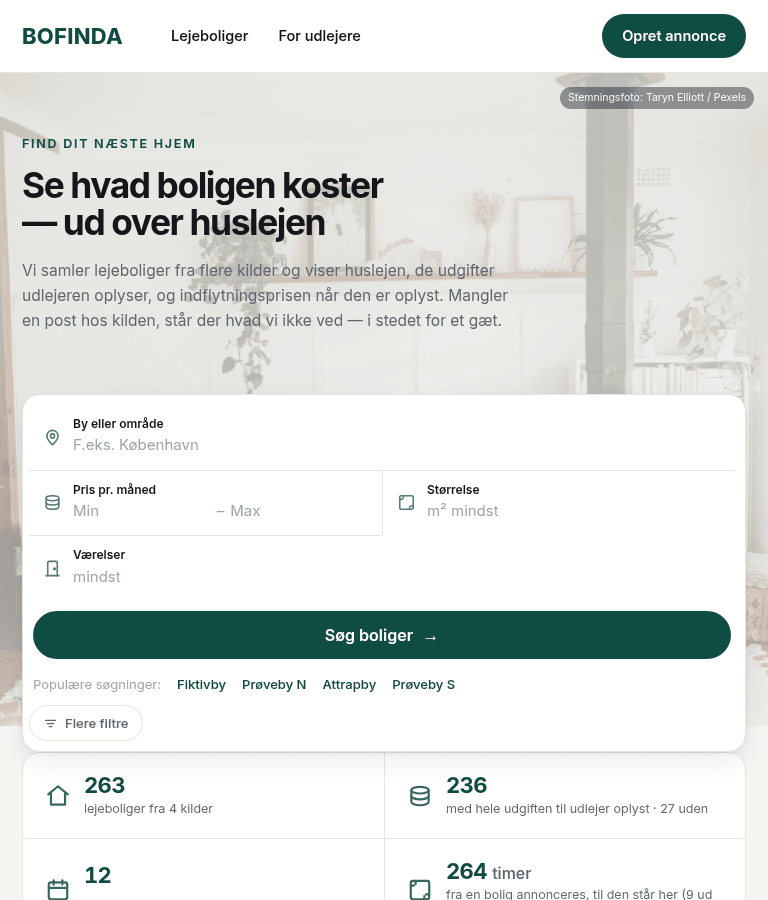
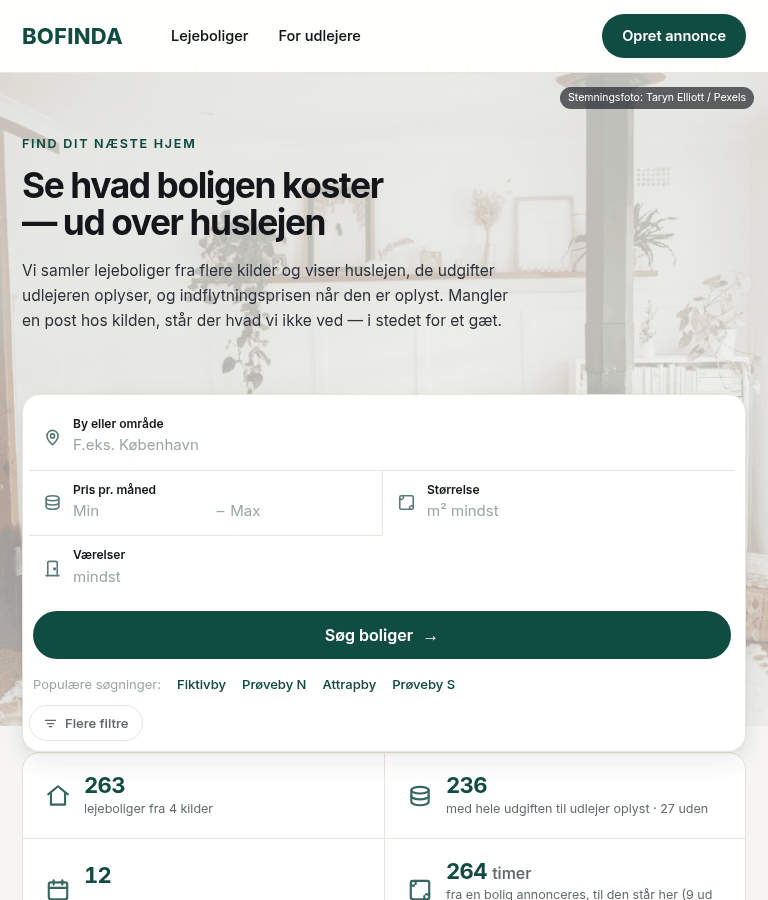
Hero'ens oevrige tekst: broedteksten og krediteringen holder nu 4,5:1 — og to fejl i selve maalingen
Kontrollen maalte kun `h1`. Den oevrige tekst paa hero'en staar over det
samme foto i lysere farver, og en overskrift, der holder, siger intet om
broedteksten under den.

Foto, beskaering og resten af designet er uaendret. `public/hero-stue.jpg`
er bit for bit den samme fil.

═══ MAALT FOER NOGEN RETTELSE ═══

Fire tekster x fire bredder x to maalinger. Tolv fald under 4,5:1:

    tekst                  farve                    over sort   med fotoet
    den lille overskrift   #0f4d43                  4,8–8,4     5,5–9,0     ok
    overskriften           #14161a                  7,2–8,9     9,3–13,0    ok
    broedteksten           #5f6672                  2,2–2,8     2,9–3,8     FALDT
    fotokrediteringen      hvid paa rgba(…,.42)     4,6–14,6    3,2–3,3     FALDT

═══ RETTELSERNE ═══

BROEDTEKSTEN brugte `--daempet` (#5f6672) — en farve valgt til en rolig
flade, ikke til et foto. Den er nu #2c333d, og tallet er REGNET: den
lyseste flade bag teksten over et helt sort motiv har luminans 0,357, og
4,5:1 kraever saa en tekstluminans under 0,040. #2c333d ligger paa 0,032.
Reglen er lokal for `.hero-manchet`; resten af sidens broedtekst bliver
paa `--daempet`, hvor den staar paa hvidt eller sand og ikke har
problemet.

FOTOKREDITERINGENS pille var rgba(20,22,26,.42) — for gennemsigtig.
Oeverst til hoejre i motivet ligger vinduet og reolen, motivets lyseste
parti, og hvid tekst paa den blanding gav 3,2:1. Pillen er nu .66, ogsaa
[…]

Changed region(s): [[0.2188, 0.28, 0.6562, 0.3733], [0.0312, 0.28, 0.2188, 0.3733], [0.7188, 0.0933, 1.0, 0.1244]]

diff --git a/app/globals.css b/app/globals.css
@@ -1026,8 +1026,22 @@ footer.bund {
   margin: 0 0 18px; max-width: 17ch; text-wrap: balance;
 }
 .hero-manchet {
-  font-size: clamp(15.5px, 1.25vw, 18px); line-height: 1.6; color: var(--daempet);
+  font-size: clamp(15.5px, 1.25vw, 18px); line-height: 1.6;
   margin: 0; max-width: 50ch;
+  /* EGEN FARVE, IKKE `--daempet`. Manchetten er den eneste broedtekst
+     paa siden, der staar over et FOTO. `--daempet` (#5f6672) er valgt
+     til en rolig flade og maalte 2,2–2,9:1 her — under kravet paa alle
+     fire bredder, og vaerst dér hvor sloeret er tyndest.
+
+     #2c333d er regnet, ikke valgt: den lyseste flade bag teksten over
+     et helt sort motiv har luminans 0,357, og 4,5:1 kraever saa en
+     tekstluminans under 0,040. Den her ligger paa 0,032 og giver
+     4,9:1 med margen. Den er stadig tydeligt lettere end overskriftens
+     #14161a, saa hierarkiet holder.
+
+     Resten af sidens broedtekst bliver paa `--daempet`. Den staar paa
+     hvidt eller sand og har ingen af de problemer. */
+  color: #2c333d;
 }
 
 /* ── Soegekortet ───────────────────────────────────────────────
@@ -1047,8 +1061,21 @@ footer.bund {
      hero'ens underkant (`translateY(38px)`), og en linje dernede ville
      ligge bag kortet paa hver eneste skaermbredde. */
   position: absolute; right: 14px; top: 14px; margin: 0; z-index: 1;
-  font-size: 11px; color: rgba(255,255,255,.92);
-  background: rgba(20,22,26,.42); backdrop-filter: blur(3px);
+  /* PILLEN VAR FOR GENNEMSIGTIG. `rgba(20,22,26,.42)` laader det, der
+     ligger bag, slaa igennem, og oeverst til hoejre i motivet ligger
+     vinduet og reolen — motivets LYSESTE parti. Hvid tekst paa den
+     blanding maalte 3,2–3,3:1 paa alle fire bredder.
+
+     .66 er regnet paa det vaerst taenkelige: er fladen bag pillen helt
+     hvid, bliver blandingen 255 − 235·a. For at hvid tekst naar 4,5:1
+     skal blandingen under 118, altsaa a ≥ .58. Med .66 bliver den 100
+     og giver 5,9:1. Over en moerk flade bliver pillen kun moerkere.
+
+     Teksten er ren hvid og ikke .92: forskellen er lille paa skaermen,
+     men den gjorde MAALINGEN upraecis — kontrollen laeser den oplyste
+     farve, og den oplyste var lysere end den gengivne. */
+  font-size: 11px; color: #fff;
+  background: rgba(20,22,26,.66); backdrop-filter: blur(3px);
   padding: 4px 10px; border-radius: var(--r-pille);
 }
 @media (max-width: 900px) { .hero-kredit { font-size: 10.5px; padding: 3px 8px; } }

diff --git a/docs/frontend-lancering-v2/designloeft.md b/docs/frontend-lancering-v2/designloeft.md
@@ -301,6 +301,81 @@ næsten helt væk — hero'en så ud som en tom cremefarvet flade. Nu
 
 ---
 
+## Hero'ens tekstkontrast
+
+Kontrollen målte kun `h1`. Den øvrige tekst på hero'en står over det
+samme foto i lysere farver, og **en overskrift, der holder, siger intet
+om brødteksten under den.**
+
+### Målt før nogen rettelse
+
+Fire tekster × fire bredder × to målinger. **12 fald under 4,5:1:**
+
+| Tekst | Farve | Over sort | Med fotoet | |
+|---|---|---|---|---|
+| Den lille overskrift | `#0f4d43` | 4,8–8,4:1 | 5,5–9,0:1 | ✓ holdt |
+| Overskriften | `#14161a` | 7,2–8,9:1 | 9,3–13,0:1 | ✓ holdt |
+| **Brødteksten** | `#5f6672` | **2,2–2,8:1** | **2,9–3,8:1** | ✗ alle fire bredder |
+| **Fotokrediteringen** | hvid på `rgba(20,22,26,.42)` | 4,6–14,6:1 | **3,2–3,3:1** | ✗ alle fire bredder |
+
+### Hvad der var galt, og hvorfor
+
+**Brødteksten** brugte `--daempet` (`#5f6672`) — en farve valgt til en
+rolig flade, ikke til et foto. Den er nu `#2c333d`, og tallet er
+**regnet**: den lyseste flade bag teksten over et helt sort motiv har
+luminans 0,357, og 4,5:1 kræver så en tekstluminans under 0,040.
+`#2c333d` ligger på 0,032. Reglen er lokal for `.hero-manchet` — resten
+af sidens brødtekst bliver på `--daempet`, hvor den står på hvidt eller
+sand og ikke har problemet.
+
+**Fotokrediteringens** pille var `rgba(20,22,26,.42)` — for
+gennemsigtig. Øverst til højre i motivet ligger vinduet og reolen,
+motivets lyseste parti, og hvid tekst på den blanding gav 3,2:1. Pillen
+er nu `.66`, også regnet: er fladen bag den helt hvid, bliver blandingen
+`255 − 235·a`, og hvid tekst når 4,5:1, når blandingen er under 118 —
+altså `a ≥ .58`. Teksten er samtidig gjort ren hvid i stedet for
+`rgba(255,255,255,.92)`; forskellen er lille på skærmen, men den gjorde
+**målingen** upræcis, fordi kontrollen læser den oplyste farve.
+
+### Målt efter
+
+**Alle 57 hero-kontroller grønne.**
+
+| Tekst | 390 px | 768 px | 1440 px | 1920 px |
+|---|---|---|---|---|
+| Den lille overskrift · sort | 4,9:1 | 4,8:1 | 8,4:1 | 8,2:1 |
+| Den lille overskrift · foto | 7,7:1 | 5,5:1 | 8,5:1 | 9,0:1 |
+| Overskriften · sort | 8,9:1 | 8,8:1 | 7,7:1 | 7,2:1 |
+| Overskriften · foto | 9,7:1 | 9,3:1 | 13,0:1 | 13,0:1 |
+| **Brødteksten · sort** | 6,2:1 | 6,1:1 | 5,2:1 | 4,9:1 |
+| **Brødteksten · foto** | 6,4:1 | 6,5:1 | 8,4:1 | 8,4:1 |
+| **Krediteringen · sort** | 8,4:1 | 8,4:1 | 15,1:1 | 16,3:1 |
+| **Krediteringen · foto** | 6,5:1 | 6,6:1 | 6,7:1 | 6,7:1 |
+
+Kravet er 4,5:1. Foto, beskæring og resten af designet er uændret.
+
+### To fejl i selve målingen, fundet undervejs
+
+Begge er den samme slags som gradientfejlen: **måling det forkerte
+sted.** Begge blev fanget, fordi kontrollen kørte, før noget blev rettet.
+
+1. **Elementets kasse i stedet for tekstens linjer.** `.hero-oejenbryn`
+   er et `<p>` i fuld indholdsbredde — 1300 px — mens teksten fylder
+   160. Målt på elementets kasse lå prøvepunkterne et halvt tusinde
+   pixels fra nærmeste bogstav, og på en bred skærm er dét fotoet uden
+   slør. Kontrollen meldte **1,0:1** om en grøn tekst på en næsten hvid
+   flade. Nu bruges en `Range` om indholdet, så kasserne følger de
+   faktiske linjer.
+
+2. **`visibility: hidden` i stedet for gennemsigtig farve.**
+   Krediteringen har sin egen mørke pille bag sig.
+   `visibility: hidden` skjulte pillen med, så vi målte hvid tekst mod
+   **fotoet** i stedet for mod pillen — 1,2:1, et tal der ikke svarede
+   til noget, nogen ser. Nu sættes `color: transparent`, så alt andet
+   bliver stående, også `backdrop-filter`.
+
+---
+
 ## Resterende afvigelser fra mockupsene
 
 Ud over det manglende hero-foto og de udeladte produktpåstande ovenfor:
@@ -347,7 +422,7 @@ Alle kørt mod det isolerede testmiljø efter den sidste ændring.
 | `scripts/cloud/kontrol.sh` | ALT GRØNT — kort, billeder dekodet, gruppekort, samtykke og analytics |
 | `scripts/cloud/kontrol-pagination.sh` | ALT GRØNT — sideudsnit, canonical, tomt udsnit ≠ nulresultat |
 | `scripts/cloud/lancering.mjs` | alt grønt · 88 kontroller — 1440, 768 og 390 px, fokus, kontrast, lang adresse, kort uden foto, søgeknappens højde |
-| `scripts/cloud/hero.sh` | alt grønt · 32 kontroller — 390, 768, 1440 og 1920 px, se nedenfor |
+| `scripts/cloud/hero.sh` | alt grønt · 57 kontroller — 390, 768, 1440 og 1920 px, se nedenfor |
 
 `scripts/cloud/lancering.mjs` er rettet to steder og udvidet ét, fordi
 designet flyttede det, den målte:
@@ -375,26 +450,22 @@ symmetriske gutters og 0 px vandret overløb på 1440, 1280, 1100, 768,
 
 ### Hero-kontrollen
 
-`scripts/cloud/herokontrol.mjs` er ny og kører **uden**
-hero-miljøvariabler — er en af dem sat i processen, stopper den. Otte
-kontroller pr. bredde på 390, 768, 1440 og 1920 px: at standardfotoet
+`scripts/cloud/herokontrol.mjs` kører **uden** hero-miljøvariabler — er
+en af dem sat i processen, stopper den. Fjorten kontroller pr. bredde på
+390, 768, 1440 og 1920 px: at standardfotoet
 bruges, at billedet er **dekodet** (ikke bare har en `src`), at
 proportionerne bevares, at krediteringen står der, at søgeknappen holder
 48 px, at der ikke er vandret overløb, og to målinger af overskriftens
 læsbarhed.
 
-Læsbarheden måles i overskriftens egen kasse, to gange:
+Læsbarheden måles for **hver af hero'ens fire tekster** — den lille
+overskrift, overskriften, brødteksten og fotokrediteringen — i tekstens
+egne linjekasser, og to gange hver: med det faktiske foto og over et
+helt sort motiv. Tallene står under «Hero'ens tekstkontrast» ovenfor.
 
-| Bredde | Med det faktiske foto | Over et **helt sort** motiv |
-|---|---|---|
-| 390 px | 9,8:1 (middel 14,5) | 8,9:1 |
-| 768 px | 9,3:1 (middel 14,1) | 8,8:1 |
-| 1440 px | 12,1:1 (middel 16,0) | 5,2:1 |
-| 1920 px | 13,1:1 (middel 16,0) | 5,3:1 |
-
-Kravet er 4,5:1. **Den anden kolonne er den vigtige:** den første kan
-være grøn, fordi netop dette foto er lyst; den anden er grøn, fordi
-sløret er rigtigt — også hvis nogen sætter et mørkt foto ind med
+Kravet er 4,5:1. **Målingen over sort er den vigtige:** den med fotoet
+kan være grøn, fordi netop dette foto er lyst; den anden er grøn, fordi
+slør og farve er rigtige — også hvis nogen sætter et mørkt foto ind med
 `NEXT_PUBLIC_HERO_FOTO`.
 
 *Første udgave af den kontrol målte forkert.* Den læste den laveste alfa
